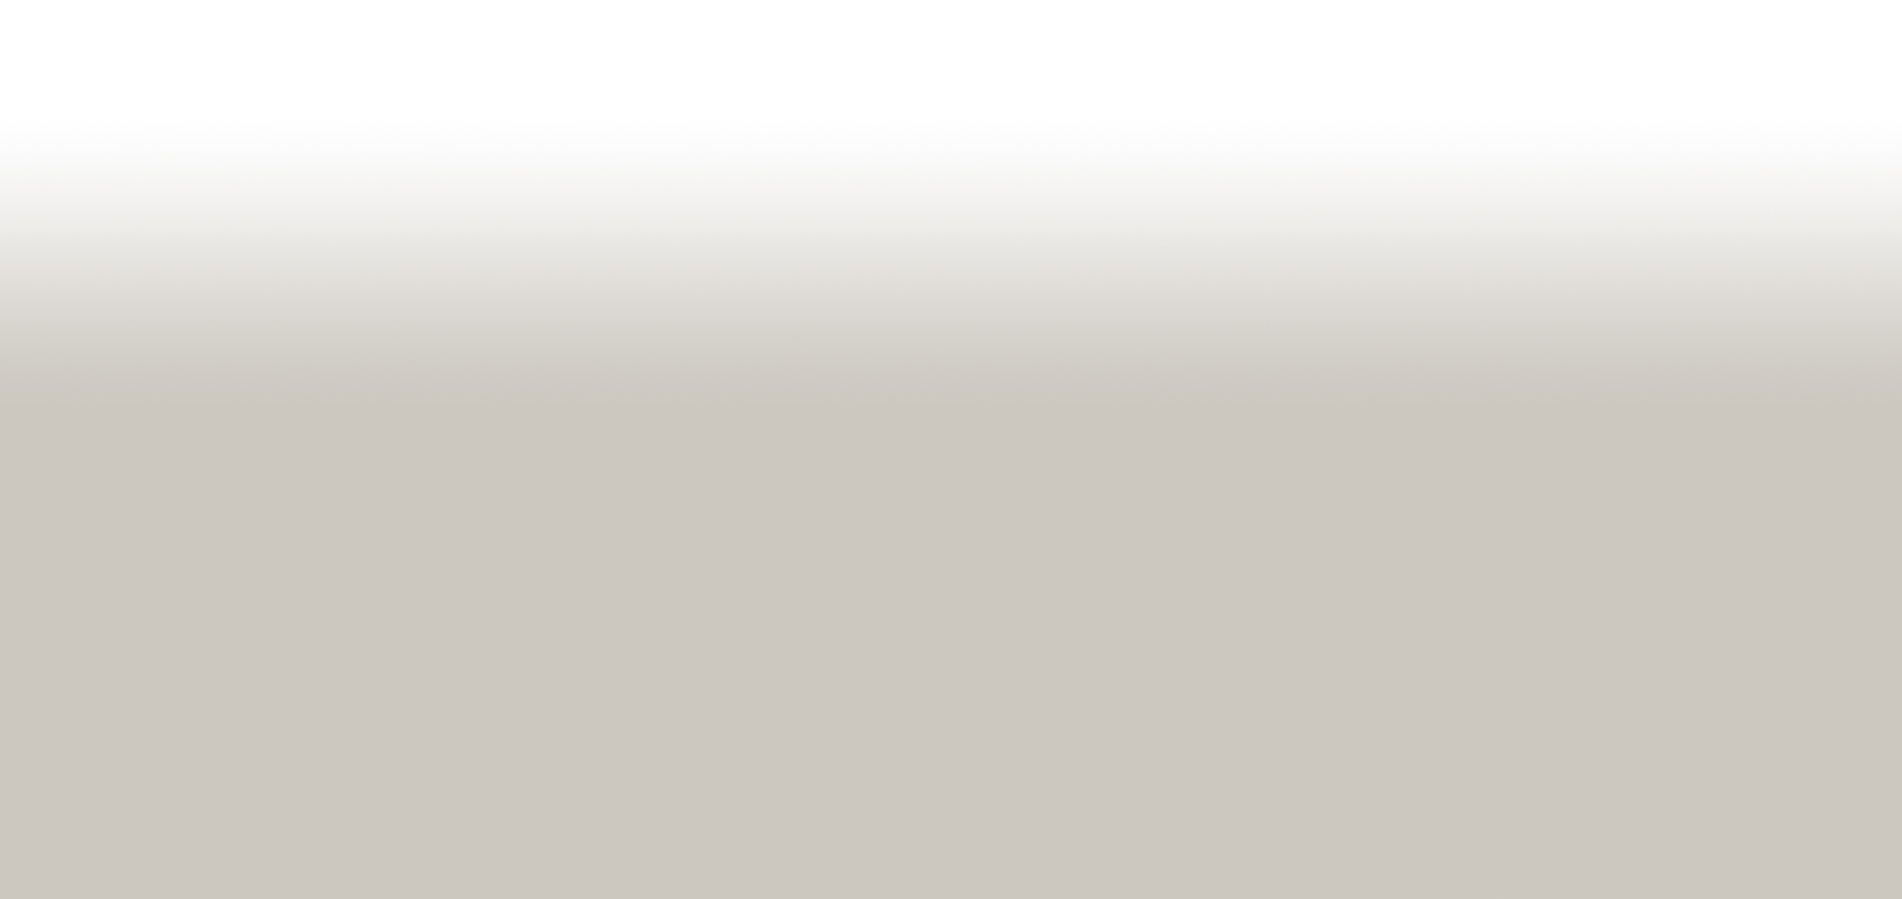
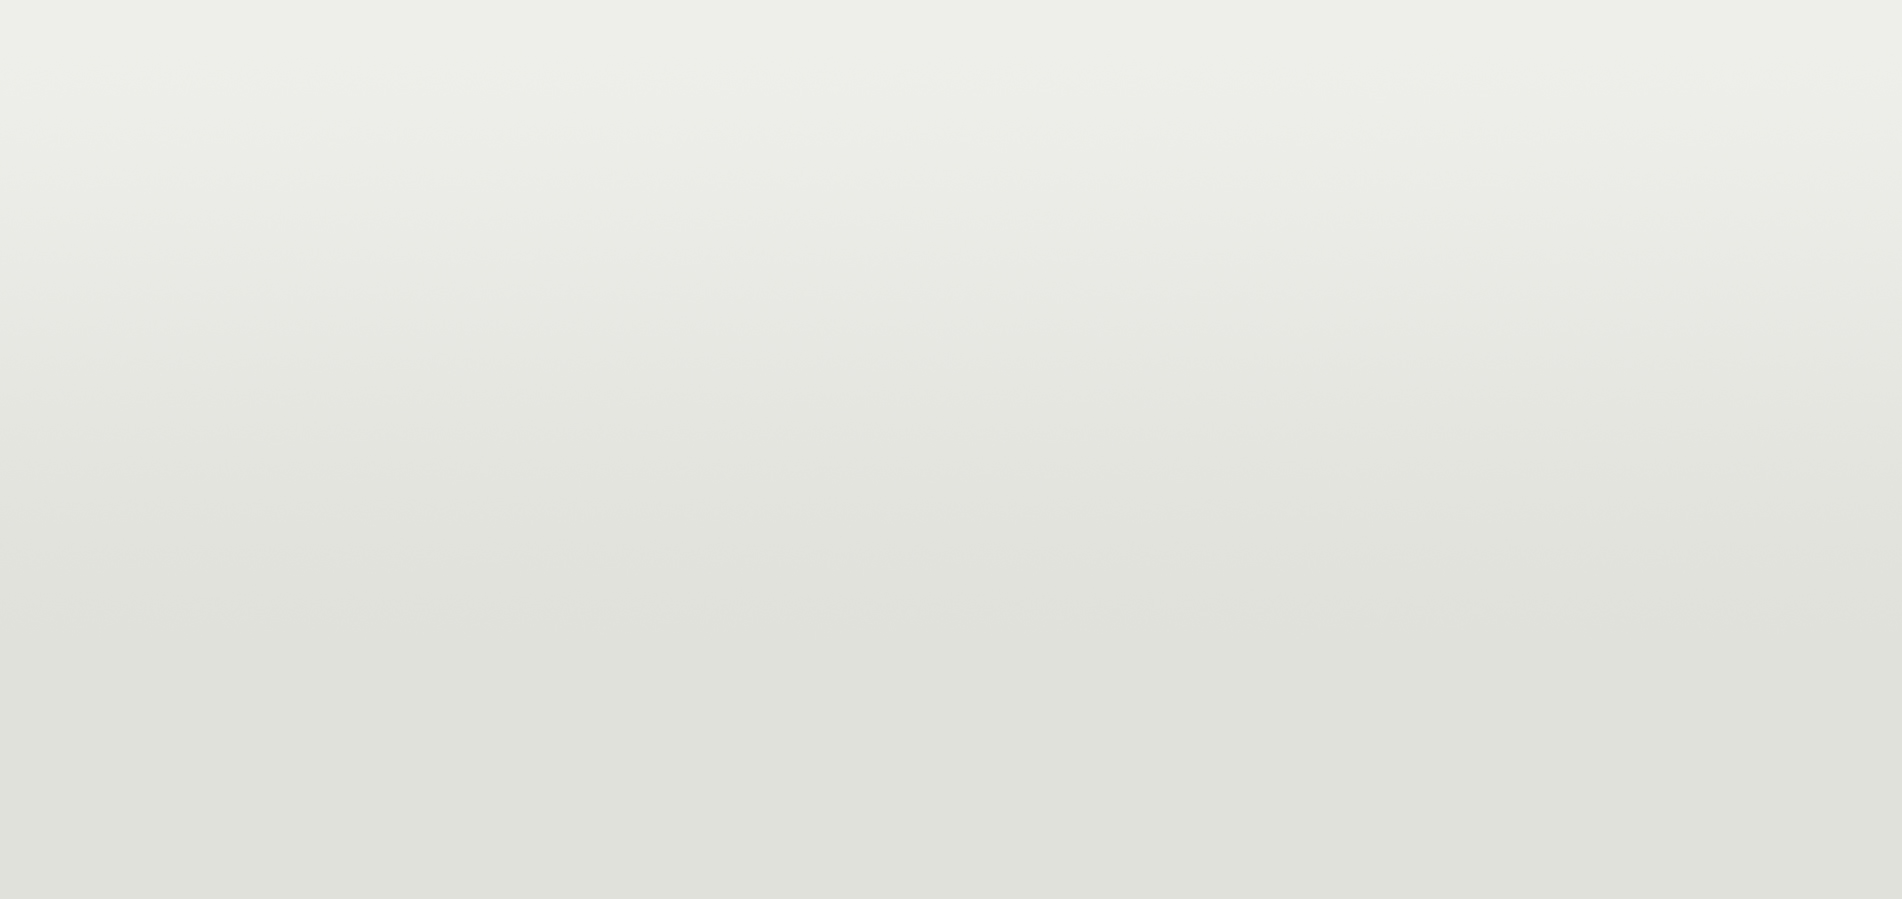
1

diff --git a/css/title.css b/css/title.css
@@ -1,7 +1,5 @@
 /*타이틀영역*/
 div#title{
-   background-color: #ccc8c0;
-   background-size: cover;
    height: 100vh;
    box-sizing: border-box;
    display: flex;
@@ -9,6 +7,9 @@ div#title{
    justify-content: center;
    min-height: 700px;
    border-radius: 0 0 30% 30%;
+   background-image: url(../img/title.jpg);
+   background-size: cover;
+   background-repeat: no-repeat;
 }
 div#title div.wrap{ /* 하위선택자 */
    width: 1440px;
@@ -52,8 +53,9 @@ div#title .down p{
    background-image: url(../img/swipe.png);
    background-repeat: no-repeat;
    background-size: contain;
-   width: 45px;
-   height: 45px;
+   width: 40px;
+   height: 40px;
+   display: block;
    font-size: 0;
    position: relative;
    left: 50%;

diff --git a/css/header.css b/css/header.css
@@ -37,7 +37,7 @@ header h1 a{
    font-size: 0;
    width:120px;
    height: 72px;
-   background-image: url(../img/rogo1.png);
+   background-image: url(../img/rogo.png);
    background-repeat: no-repeat;
    background-position: center;
    background-size: contain;
@@ -71,7 +71,7 @@ header ul li a:hover{
 /*자식선택자 : 바로 아래에 있는 선택자(태그) */
 header div.wrap>a{
    font-size: 0;
-   background-image: url(../img/menu.png);
+   background-image: url(../img/ham.png);
    background-repeat: no-repeat;
    background-position: center;
    background-size: cover;

diff --git a/css/contact.css b/css/contact.css
@@ -13,7 +13,7 @@ section#contact .wrap{
 section#contact .box1{  
    width: 700px;
    margin-right: 20px;
-   background-color: #ccc8c0;
+   background-color: #dedfd9;
    text-align: center;
    height: 300px;
    border-radius: 50px 0 50px 0;
@@ -34,7 +34,7 @@ section#contact .box1 h3{
 }
 section#contact .box2{   
    width: 500px;
-   background-color: #ccc8c061;
+   background-color: #ecede8;
    text-align: end;
    height: 300px;
    border-radius: 50px 0 50px 0;

diff --git a/css/skill.css b/css/skill.css
@@ -7,6 +7,7 @@ section#skill{
   justify-content: center;
   min-height: 700px;
   border-radius: 30% 30% 0 0;
+  background: ;
 }
 section#skill .wrap{
 }
